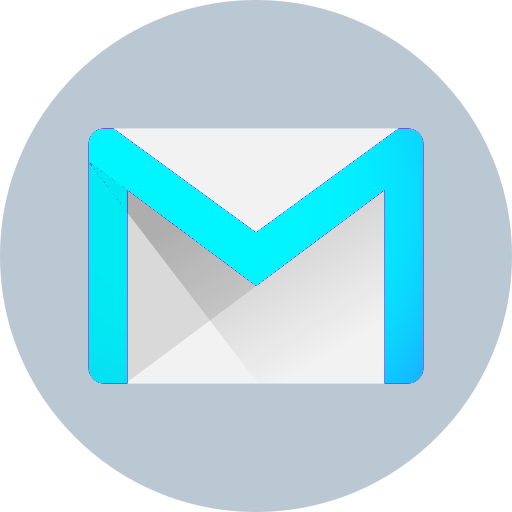
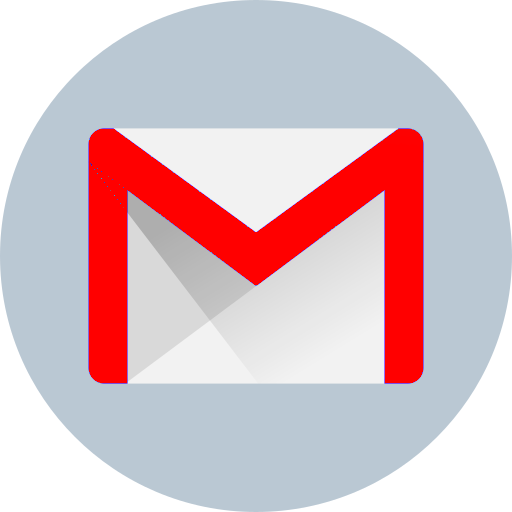
x

Changed region(s): [[0.1562, 0.25, 0.8438, 0.75]]

diff --git a/css/style.scss b/css/style.scss
@@ -12,7 +12,7 @@
   }
   
   .scroll::-webkit-scrollbar-thumb{
-    background-color: #00f7ff;
+    background-color: #ff0000;
     border-radius: 6px;}
 
 body{
@@ -22,7 +22,7 @@ body{
   right: 10px;
   word-wrap: break-word;
   overflow-wrap: break-word;
-  background-image: url(/img/b4.jpg);
+background-image: url(/img/b4.jpg);
   background-repeat: no-repeat;
   background-attachment: fixed;
   background-size: cover;
@@ -233,7 +233,7 @@ z-index: 8;
 
 background: -moz-linear-gradient(to bottom, rgba(0,0,0,0) 0, rgba(0,0,0,0) 40%, #000 100% );
 background: -webkit-linear-gradient(to bottom, rgba(0,0,0,0) 0, rgba(0,0,0,0) 40%, #000 100% );
-background: linear-gradient(to bottom, rgb(0, 0, 0) 0.1%, rgba(223, 14, 14, 0) 40%, #00000000 100% );
+background: linear-gradient(to bottom, rgb(0, 0, 0) 0.1%, rgba(223, 14, 14, 0) 40%, #0000006c 100% );
 
 }
 section.module.parallax-3:after{

diff --git a/css/style.css b/css/style.css
@@ -12,7 +12,7 @@
 }
 
 .scroll::-webkit-scrollbar-thumb {
-  background-color: #00f7ff;
+  background-color: #ff0000;
   border-radius: 6px;
 }
 
@@ -212,7 +212,7 @@ section.module.parallax-2:after {
   width: 100%;
   position: absolute;
   z-index: 8;
-  background: linear-gradient(to bottom, rgb(0, 0, 0) 0.1%, rgba(223, 14, 14, 0) 40%, rgba(0, 0, 0, 0) 100%);
+  background: linear-gradient(to bottom, rgb(0, 0, 0) 0.1%, rgba(223, 14, 14, 0) 40%, rgba(0, 0, 0, 0.4235294118) 100%);
 }
 
 section.module.parallax-3:after {
